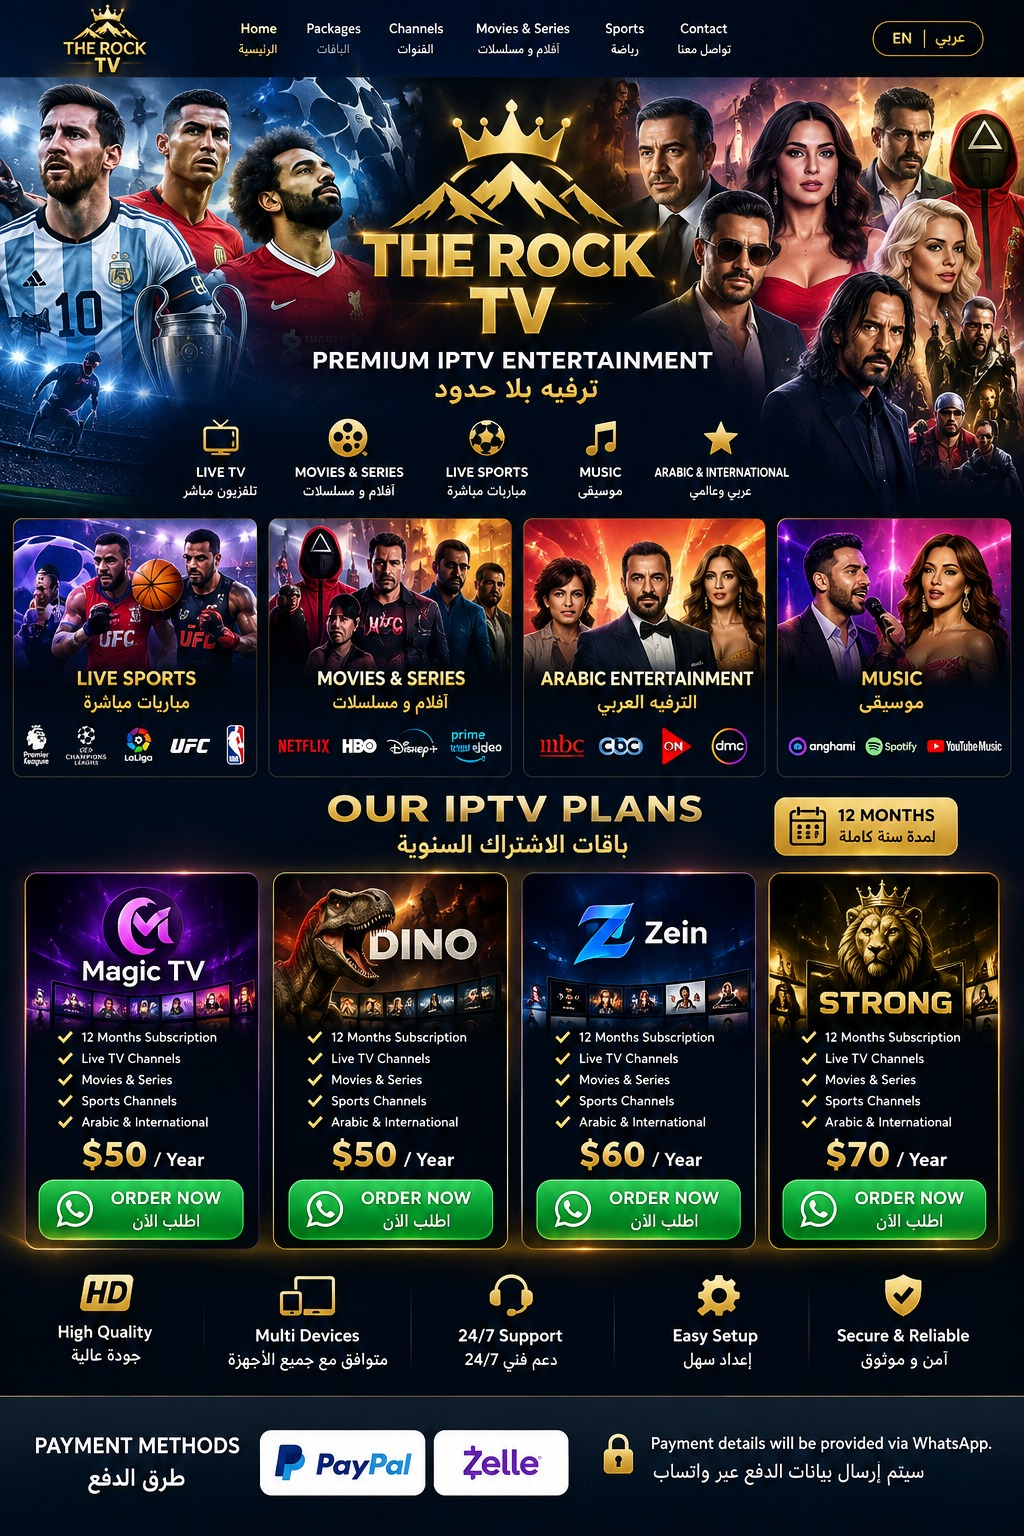
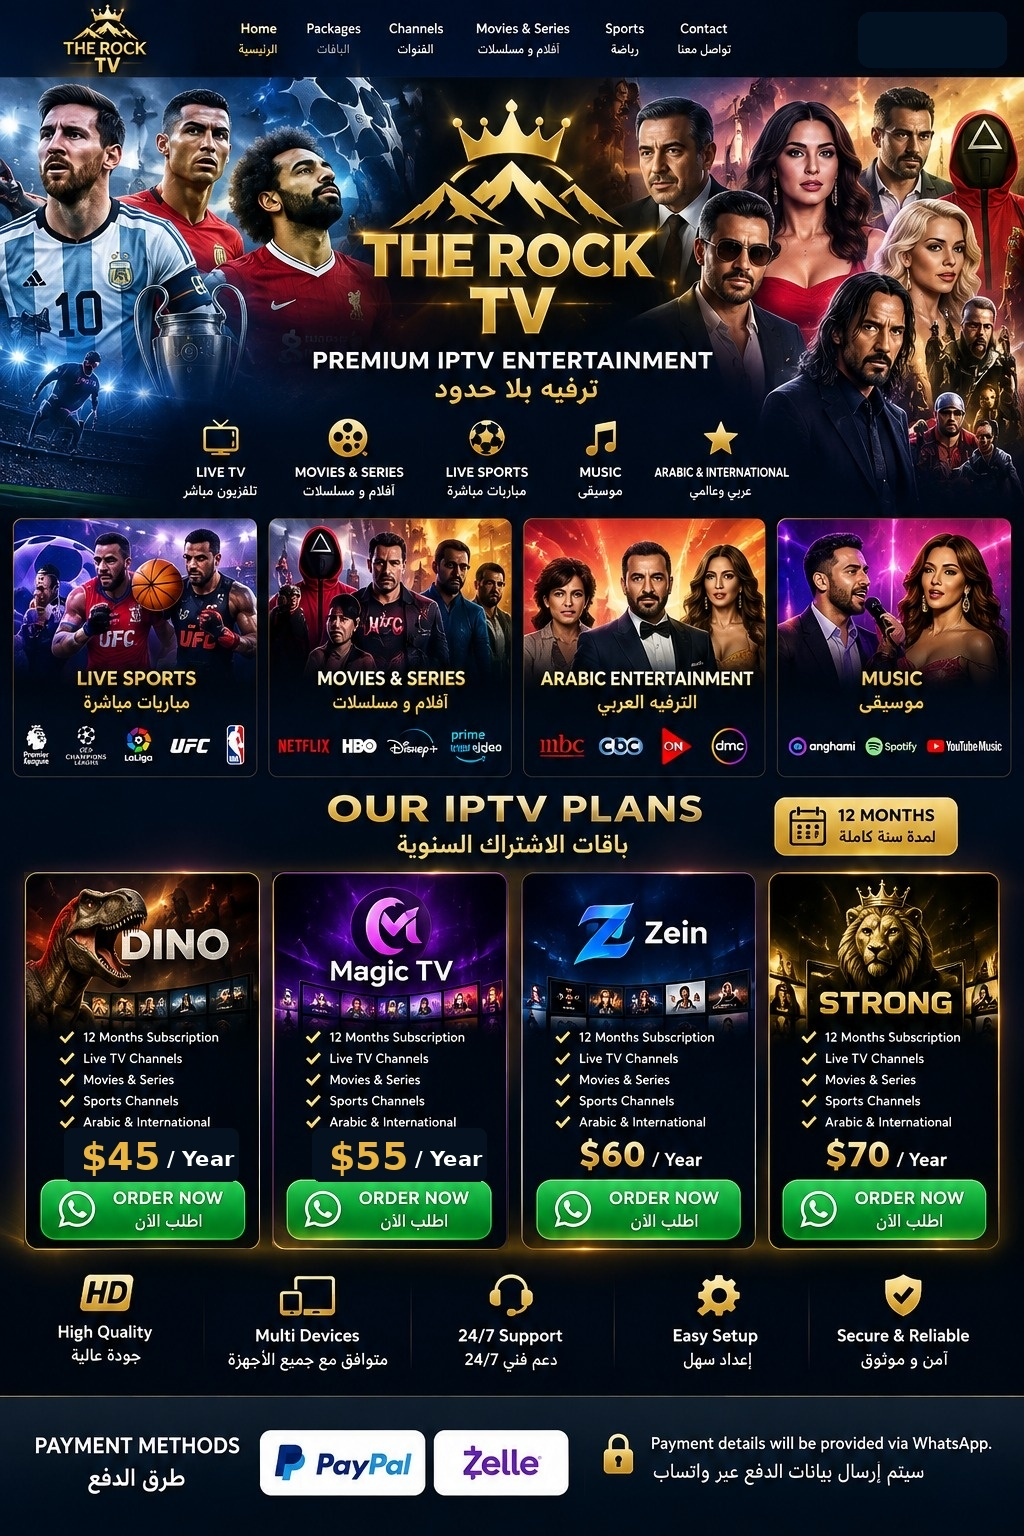
Add files via upload

Changed region(s): [[0.0, 0.5625, 0.5, 0.8125], [0.8438, 0.0, 0.9688, 0.0625], [0.8438, 0.4375, 0.875, 0.4688]]

diff --git a/index.html b/index.html
@@ -33,8 +33,8 @@ body{font-family:Arial,Helvetica,sans-serif;color:#fff}
 #home{top:0} #channels{top:27%} #movies{top:27%} #sports{top:27%} #packages{top:50%}
 .hotspot{position:absolute;z-index:10;display:block;border-radius:12px}
 .hotspot:hover{outline:2px solid rgba(255,215,70,.7);background:rgba(255,215,70,.04)}
-.magic{left:2.6%;top:76.15%;width:21.5%;height:4.7%;cursor:pointer;z-index:35}
-.dino{left:27.2%;top:76.15%;width:21.5%;height:4.7%;cursor:pointer;z-index:35}
+.dino{left:2.6%;top:76.15%;width:21.5%;height:4.7%;cursor:pointer;z-index:35}
+.magic{left:27.2%;top:76.15%;width:21.5%;height:4.7%;cursor:pointer;z-index:35}
 .zein{left:51.7%;top:76.15%;width:21.5%;height:4.7%;cursor:pointer;z-index:35}
 .strong{left:76.1%;top:76.15%;width:21.0%;height:4.7%;cursor:pointer;z-index:35}
 .cat-sports{left:1.5%;top:29.2%;width:23.3%;height:18.4%}
@@ -46,15 +46,6 @@ body{font-family:Arial,Helvetica,sans-serif;color:#fff}
  text-decoration:none;font-weight:900;padding:13px 18px;border-radius:999px;
  box-shadow:0 8px 25px rgba(0,0,0,.35)
 }
-.price-fix{
-  position:absolute;z-index:14;top:72.55%;height:2.35%;
-  display:flex;align-items:center;justify-content:center;
-  background:#071421;color:#e9b43c;font-weight:900;
-  font-size:clamp(18px,2.6vw,38px);line-height:1;border-radius:6px;
-}
-.price-fix span{color:#fff;font-size:.55em;margin-left:7px;font-weight:800}
-.magic-price{left:7.0%;width:15.5%}
-.dino-price{left:31.1%;width:15.5%}
 .contact-card{
   margin:34px auto 48px;max-width:760px;padding:28px;
   border:1px solid rgba(232,188,78,.45);border-radius:22px;
@@ -122,11 +113,7 @@ body{font-family:Arial,Helvetica,sans-serif;color:#fff}
     <a class="hotspot cat-movies" id="movieLink" target="_blank" rel="noopener" aria-label="Movies and series"></a>
     <a class="hotspot cat-arabic" id="arabicLink" target="_blank" rel="noopener" aria-label="Arabic entertainment"></a>
     <a class="hotspot cat-music" id="musicLink" target="_blank" rel="noopener" aria-label="Music channels"></a>
-
-    <div class="price-fix magic-price">$55 <span>/ Year</span></div>
-    <div class="price-fix dino-price">$45 <span>/ Year</span></div>
-
-    <a class="hotspot magic" data-plan="Magic TV" data-price="$55/year" target="_blank" rel="noopener" aria-label="Order Magic TV"></a>
+<a class="hotspot magic" data-plan="Magic TV" data-price="$55/year" target="_blank" rel="noopener" aria-label="Order Magic TV"></a>
     <a class="hotspot dino" data-plan="DINO" data-price="$45/year" target="_blank" rel="noopener" aria-label="Order DINO"></a>
     <a class="hotspot zein" data-plan="Zein" data-price="$60/year" target="_blank" rel="noopener" aria-label="Order Zein"></a>
     <a class="hotspot strong" data-plan="STRONG" data-price="$70/year" target="_blank" rel="noopener" aria-label="Order STRONG"></a>
